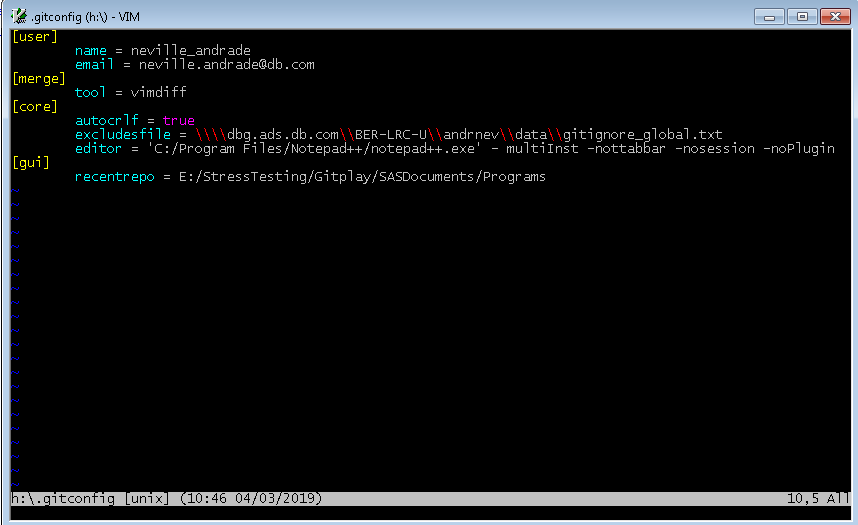
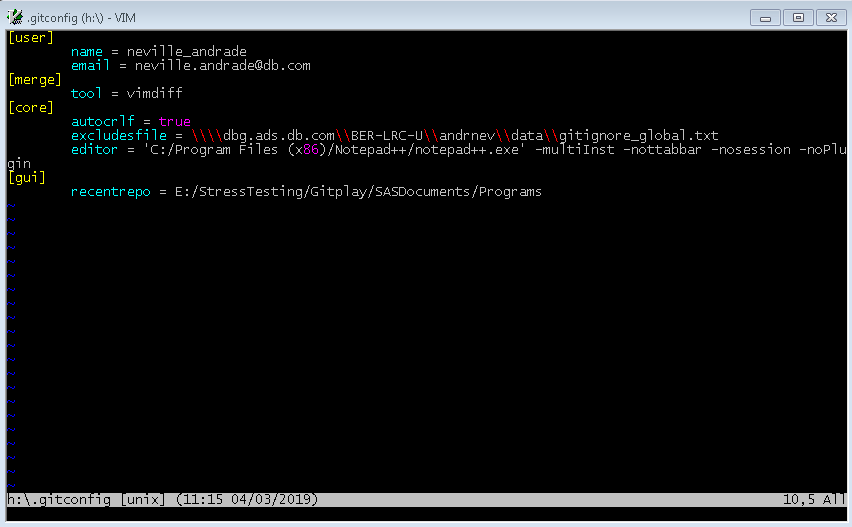
GitBook: [master] 8 pages and 20 assets modified

Changed region(s): [[0.0, 0.0, 1.0, 1.0]]

diff --git a/test-chapter-2/test-child-page-chapter-2.md b/test-chapter-2/test-child-page-chapter-2.md
@@ -4,7 +4,7 @@
 
 1. Git can be downloaded from the official software packaging resource. The link is [https://asd.tools.intranet.db.com](https://asd.tools.intranet.db.com). Add to cart the application **1524048-CMW7M6 GIT VERSION 2.17.1.2 64 Bit** . The software will be delivered to you by the Software Center interface.
 
-![ASD GIT version that needs to be requisitioned](../.gitbook/assets/image%20%2824%29.png)
+![ASD GIT version that needs to be requisitioned](../.gitbook/assets/image%20%2825%29.png)
 
 2. Open Software Center by clicking Start and writing the word "Software Center" in the search section
 
@@ -16,7 +16,7 @@
 
 4. Install the software. Your installation should complete and look like below
 
-![Successful installation of GIT](../.gitbook/assets/image%20%2827%29.png)
+![Successful installation of GIT](../.gitbook/assets/image%20%2828%29.png)
 
 {% hint style="info" %}
 Note: Please do not install any other version of GIT from other locations for security reasons.
@@ -28,5 +28,5 @@ Note: Please do not install any other version of GIT from other locations for se
 
 6. You can verify the git version 
 
-![](../.gitbook/assets/image%20%2815%29.png)
+![](../.gitbook/assets/image%20%2816%29.png)
 

diff --git a/what-git-can-do/centralized-workflow.md b/what-git-can-do/centralized-workflow.md
@@ -32,13 +32,17 @@ Lets have a look at the project structure on the bitbucket server.
 
  
 
-![spytalk repo with a readme doc and 2 folders](../.gitbook/assets/image%20%2825%29.png)
+![spytalk repo with a readme doc and 2 folders](../.gitbook/assets/image%20%2826%29.png)
 
 ![modules folder contents](../.gitbook/assets/image.png)
 
-![documentation folder contents](../.gitbook/assets/image%20%2832%29.png)
+![documentation folder contents](../.gitbook/assets/image%20%2833%29.png)
 
+The bitbucket repo is the remote repo. It is the birthplace of the project. It is maintained on an online server. Neville and Rosa will make local copies or clones of the repo in their personal machines.
 
+![](../.gitbook/assets/image%20%2815%29.png)
+
+Neither Rosa nor Neville \(even though he is the project admin\) can edit the contents of the files on the server. They need to create a clone of the repo on their local machines. Lets have a look at each of their 
 
 
 

diff --git a/test-chapter-2/configuration-settings.md b/test-chapter-2/configuration-settings.md
@@ -14,7 +14,7 @@ Setting up the user name and email id
 
 2. The bash prompt looks like this
 
-![Git bash prompt](../.gitbook/assets/image%20%2828%29.png)
+![Git bash prompt](../.gitbook/assets/image%20%2829%29.png)
 
 3. Type the following commands
 
@@ -44,11 +44,11 @@ r -nosession -noPlugin"
 
 The config file will now have the editor set to notepad++ to open
 
-![Editor settings now changed from vim to Notepad++](../.gitbook/assets/image%20%2821%29.png)
+![Editor settings now changed from vim to Notepad++](../.gitbook/assets/image%20%2822%29.png)
 
 The editor which opens when committing code will now default to Notepad++
 
-![Notepad++ editor to write your commits](../.gitbook/assets/image%20%2823%29.png)
+![Notepad++ editor to write your commits](../.gitbook/assets/image%20%2824%29.png)
 
 If you prefer to use the simpler windows notepad instead set the editor to
 

diff --git a/extra-content/jira-and-trello-integration.md b/extra-content/jira-and-trello-integration.md
@@ -6,11 +6,11 @@ Setting up Jira thru Bitbucket is quite easy too. Once you have a bitbucket acco
 
 A few more settings are required
 
-![Jira settings](../.gitbook/assets/image%20%2826%29.png)
+![Jira settings](../.gitbook/assets/image%20%2827%29.png)
 
 ![Kanban type workflow](../.gitbook/assets/image%20%284%29.png)
 
-![Enter a project name](../.gitbook/assets/image%20%2819%29.png)
+![Enter a project name](../.gitbook/assets/image%20%2820%29.png)
 
 ![A functional JIRA project management board](../.gitbook/assets/image%20%286%29.png)
 
@@ -20,7 +20,7 @@ To integrate Bitbucket to JIRA select "Add item" in the JIRA webpage
 
 It is quite self explanatory to add either a bitbucket or github repository
 
-![JIRA and Bitbucket intergration](../.gitbook/assets/image%20%2817%29.png)
+![JIRA and Bitbucket intergration](../.gitbook/assets/image%20%2818%29.png)
 
 
 

diff --git a/extra-content/installing-bitbucket.md b/extra-content/installing-bitbucket.md
@@ -2,7 +2,7 @@
 
 Atlassian Bitbucket can be registerd for personal use [https://bitbucket.org/](https://bitbucket.org/).Bitbucket is free for upto 5 users with unlimited private repositories**.**
 
-![Atlassian Bitbucket](../.gitbook/assets/image%20%2818%29.png)
+![Atlassian Bitbucket](../.gitbook/assets/image%20%2819%29.png)
 
 After online registration you get a bitbucket panel to control your projects
 
@@ -10,5 +10,5 @@ After online registration you get a bitbucket panel to control your projects
 
 Add a repository with git as the backend repository software
 
-![A blank repository should look like this](../.gitbook/assets/image%20%2816%29.png)
+![A blank repository should look like this](../.gitbook/assets/image%20%2817%29.png)
 

diff --git a/what-git-can-do/README.md b/what-git-can-do/README.md
@@ -2,7 +2,7 @@
 
 A workflow is a set of guidelines on how to get from point A to point B. 
 
-![How to get from point A to B?](../.gitbook/assets/image%20%2829%29.png)
+![How to get from point A to B?](../.gitbook/assets/image%20%2830%29.png)
 
 Git provides several workflow methods to accomplish work in a productive manner. After discussing the several workflows commonly used in Git the next chapter focuses on the workflow most suitable for the individual research project \(centralized\), regular stress testing \(feature branch\) team, ECB stress testing \(Gitflow\), intra team projects \(forking\)
 

diff --git a/test-chapter-2/installing-tortoisegit-optional.md b/test-chapter-2/installing-tortoisegit-optional.md
@@ -14,7 +14,7 @@ You can also right click on any file in your folder and within the drop down you
 
 TORTOISEGIT offers the ability to make configuration changes as seen in the previous chapter via a settings menu
 
-![One can change configuration settings thru TORTOISEGIT too](../.gitbook/assets/image%20%2831%29.png)
+![One can change configuration settings thru TORTOISEGIT too](../.gitbook/assets/image%20%2832%29.png)
 
-![The .gitconfig file as in previous chapter](../.gitbook/assets/image%20%2820%29.png)
+![The .gitconfig file as in previous chapter](../.gitbook/assets/image%20%2821%29.png)
 

diff --git a/extra-content/continuous-integration-continuous-delivery.md b/extra-content/continuous-integration-continuous-delivery.md
@@ -1,6 +1,6 @@
 # Continuous Integration\Continuous Delivery using Bitbucket
 
-![Continuous integration thru pipelines](../.gitbook/assets/image%20%2830%29.png)
+![Continuous integration thru pipelines](../.gitbook/assets/image%20%2831%29.png)
 
 ![Python CI/CD ](../.gitbook/assets/image%20%2811%29.png)
 
